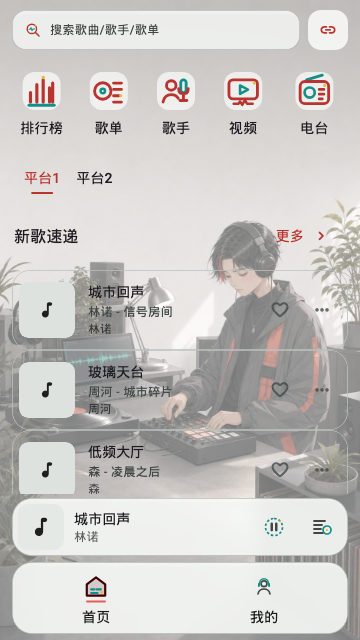
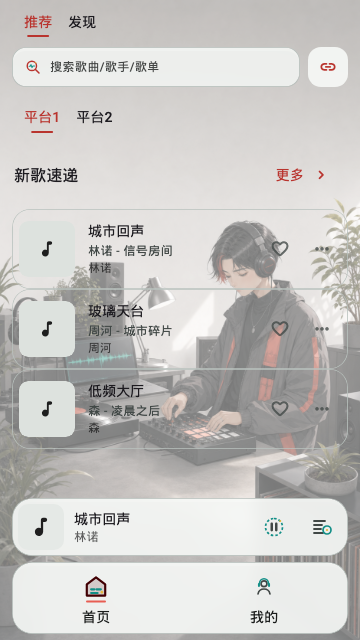
fix(theme): 同步首页双页结构皮肤预览

diff --git a/test/app/theme/skin_preview_golden_test.dart b/test/app/theme/skin_preview_golden_test.dart
@@ -31,6 +31,9 @@ const _previewKey = ValueKey<String>('skin-preview-golden-root');
 const _previewFontFamily = 'PreviewRoboto';
 const _previewCjkFontFamily = 'PreviewCjk';
 const _previewFontFallback = <String>[_previewCjkFontFamily];
+final _previewHomePageFeatures =
+    PlatformFeatureSupportFlag.getRecommendPage |
+    PlatformFeatureSupportFlag.getDiscoverPage;
 
 // 预览基准图在 macOS 生成；Linux 渲染存在稳定像素差异，不做逐像素比较。
 void main() {
@@ -77,6 +80,8 @@ void main() {
           if (previewCase.hasWallpaper) {
             await _pumpUntilWallpaperDecoded(tester);
           }
+          expect(find.text('推荐'), findsOneWidget);
+          expect(find.text('发现'), findsOneWidget);
 
           await expectLater(
             find.byKey(_previewKey),
@@ -267,19 +272,18 @@ class _PreviewHomePageController extends HomePageController {
           name: '平台1',
           shortName: '平台1',
           status: 1,
-          featureSupportFlag: PlatformFeatureSupportFlag.getDiscoverPage,
+          featureSupportFlag: _previewHomePageFeatures,
         ),
         OnlinePlatform(
           id: 'platform-2',
           name: '平台2',
           shortName: '平台2',
           status: 1,
-          featureSupportFlag: PlatformFeatureSupportFlag.getDiscoverPage,
+          featureSupportFlag: _previewHomePageFeatures,
         ),
       ],
-      selectedPage: HomePageKind.discover,
-      recommend: HomeContentState.initial,
-      discover: HomeContentState(
+      selectedPage: HomePageKind.recommend,
+      recommend: HomeContentState(
         initialized: true,
         loading: false,
         refreshing: false,
@@ -301,6 +305,7 @@ class _PreviewHomePageController extends HomePageController {
           ),
         ],
       ),
+      discover: HomeContentState.initial,
     );
   }
 
@@ -317,14 +322,14 @@ class _PreviewOnlinePlatformsController extends OnlinePlatformsController {
         name: '平台1',
         shortName: '平台1',
         status: 1,
-        featureSupportFlag: PlatformFeatureSupportFlag.getDiscoverPage,
+        featureSupportFlag: _previewHomePageFeatures,
       ),
       OnlinePlatform(
         id: 'platform-2',
         name: '平台2',
         shortName: '平台2',
         status: 1,
-        featureSupportFlag: PlatformFeatureSupportFlag.getDiscoverPage,
+        featureSupportFlag: _previewHomePageFeatures,
       ),
     ];
   }

diff --git a/test/app/theme/skin/starlit_melody_assets_test.dart b/test/app/theme/skin/starlit_melody_assets_test.dart
@@ -21,10 +21,10 @@ const _darkEvaluationHash =
[1 lines of base64/hex data omitted]
 const _lightPreviewPath = 'assets/skins/starlit_melody/preview_light.png';
 const _lightPreviewHash =
[2 lines of base64/hex data omitted]
 const _darkPreviewPath = 'assets/skins/starlit_melody/preview_dark.png';
 const _darkPreviewHash =
[2 lines of base64/hex data omitted]
 
 void main() {
   test('evaluation assets match their recorded provenance', () async {

diff --git a/test/app/theme/skin/classic_assets_test.dart b/test/app/theme/skin/classic_assets_test.dart
@@ -10,10 +10,10 @@ import 'package:he_music_flutter/app/theme/skins/classic_skin.dart';
 
 const _lightPreviewPath = 'assets/skins/classic/preview_light.png';
 const _lightPreviewHash =
[2 lines of base64/hex data omitted]
 const _darkPreviewPath = 'assets/skins/classic/preview_dark.png';
 const _darkPreviewHash =
[2 lines of base64/hex data omitted]
 
 void main() {
   test('classic previews match their recorded provenance', () async {

diff --git a/test/app/theme/skin/city_sound_creator_assets_test.dart b/test/app/theme/skin/city_sound_creator_assets_test.dart
@@ -31,12 +31,12 @@ const _dark = _WallpaperContract(
 
 const _lightPreview = _PreviewContract(
   path: 'assets/skins/city_sound_creator/preview_light.png',
[2 lines of base64/hex data omitted]
 );
 
 const _darkPreview = _PreviewContract(
   path: 'assets/skins/city_sound_creator/preview_dark.png',
[2 lines of base64/hex data omitted]
 );
 
 const _iconDirectory = 'assets/skins/city_sound_creator/icons';

diff --git a/assets/skins/city_sound_creator/LICENSES.md b/assets/skins/city_sound_creator/LICENSES.md
@@ -122,9 +122,9 @@ The replacement dark derivative was inspected at full frame and local detail on 
 ## Real UI skin previews
 
 - Generator: `make skin-previews`, which runs `flutter test --update-goldens test/app/theme/skin_preview_golden_test.dart`.
-- Render contract: actual `MaterialApp.router`, `AppTheme`, `AppSkinBackgroundLayer`, home route, discover entries, song list, mini player, bottom navigation, production wallpapers, and production SVG catalog at a fixed `360x640` logical-pixel viewport.
+- Render contract: actual `MaterialApp.router`, `AppTheme`, `AppSkinBackgroundLayer`, home route, recommend/discover tabs, recommend song list, mini player, bottom navigation, production wallpapers, and production SVG catalog at a fixed `360x640` logical-pixel viewport.
 - Data contract: deterministic Riverpod overrides provide fixed Chinese UI content; no image model redraws or synthesizes application text.
-- UI revision: regenerated on 2026-08-07 after the Home search control became a compact floating sliver; wallpaper, SVG, and Rive assets are unchanged.
+- UI revision: regenerated on 2026-08-07 with the Home recommend/discover tabs and default recommend scene; wallpaper, SVG, and Rive assets are unchanged.
 - Test fonts: Roboto Regular, Medium, and Bold plus a 14 KB Chinese glyph subset derived from Android Open Source Project's Droid Sans Fallback, all under Apache License 2.0. The files, subset glyph manifest, provenance, and license are retained under `test/assets/fonts/` and are not declared as runtime assets.
 - Material fallback icons: loaded from the Material Icons font already declared by Flutter's `uses-material-design` contract.
 - Technical inspection: both previews show the decoded production wallpaper, readable Chinese text, production SVGs, Material fallbacks, mini player, and navigation without blank regions or overlaps. The current revision uses a roughly `48%` white readability overlay in light mode; scrolling Items are transparent in both brightness modes and transparent surfaces do not draw shadows.
@@ -134,13 +134,13 @@ The replacement dark derivative was inspected at full frame and local detail on 
 
 - Path: `assets/skins/city_sound_creator/preview_light.png`.
 - Actual dimensions: `360x640`.
[2 lines of base64/hex data omitted]
 
 ### Dark real UI preview
 
 - Path: `assets/skins/city_sound_creator/preview_dark.png`.
 - Actual dimensions: `360x640`.
[2 lines of base64/hex data omitted]
 
 ## Rive ambient animation
 

diff --git a/assets/skins/starlit_melody/LICENSES.md b/assets/skins/starlit_melody/LICENSES.md
@@ -36,11 +36,11 @@ No generative enhancement, face repair, spatial crop, or composition change was 
 
 - Generation: real routed Flutter home scene through `make skin-previews`
 - Actual dimensions: `360x640` for both previews
-- UI revision: regenerated on 2026-08-07 after the Home search control became a compact floating sliver; wallpaper and theme-token assets are unchanged
+- UI revision: regenerated on 2026-08-07 with the Home recommend/discover tabs and default recommend scene; wallpaper and theme-token assets are unchanged
 - Light preview: `assets/skins/starlit_melody/preview_light.png`
[2 lines of base64/hex data omitted]
 - Dark preview: `assets/skins/starlit_melody/preview_dark.png`
[2 lines of base64/hex data omitted]
 - Light tokens: Ice Rail primary `#00677A`, Berry Signal secondary `#B72F5B`, Ink text `#17202A`, transparent scrolling content surface
 - Dark tokens: Ice Rail primary `#78D5E7`, blue-gray fixed surfaces, Mist text `#F0EDF5`, transparent scrolling content surface
 - Approval status: the light preview and current dark evaluation appearance were approved by the user on 2026-07-28; these files were regenerated from those same runtime tokens

diff --git a/assets/skins/classic/LICENSES.md b/assets/skins/classic/LICENSES.md
@@ -9,18 +9,18 @@ The classic skin has no external wallpaper or icon assets. This directory contai
 - Dark seed: `#34D399`
 - Generation: real routed Flutter home scene through `make skin-previews`
 - Actual dimensions: `360x640` for both previews
-- UI revision: regenerated on 2026-08-07 after the Home search control became a compact floating sliver; theme tokens and bundled assets are unchanged
+- UI revision: regenerated on 2026-08-07 with the Home recommend/discover tabs and default recommend scene; theme tokens and bundled assets are unchanged
 
 The classic skin still supports manual accent selection. These static previews represent the application default accent and must be regenerated if `AppConfigState.initial.themeAccent` changes.
 
 ## Light Preview
 
 - Path: `assets/skins/classic/preview_light.png`
[2 lines of base64/hex data omitted]
 - Actual dimensions: `360x640`
 
 ## Dark Preview
 
 - Path: `assets/skins/classic/preview_dark.png`
[2 lines of base64/hex data omitted]
 - Actual dimensions: `360x640`
